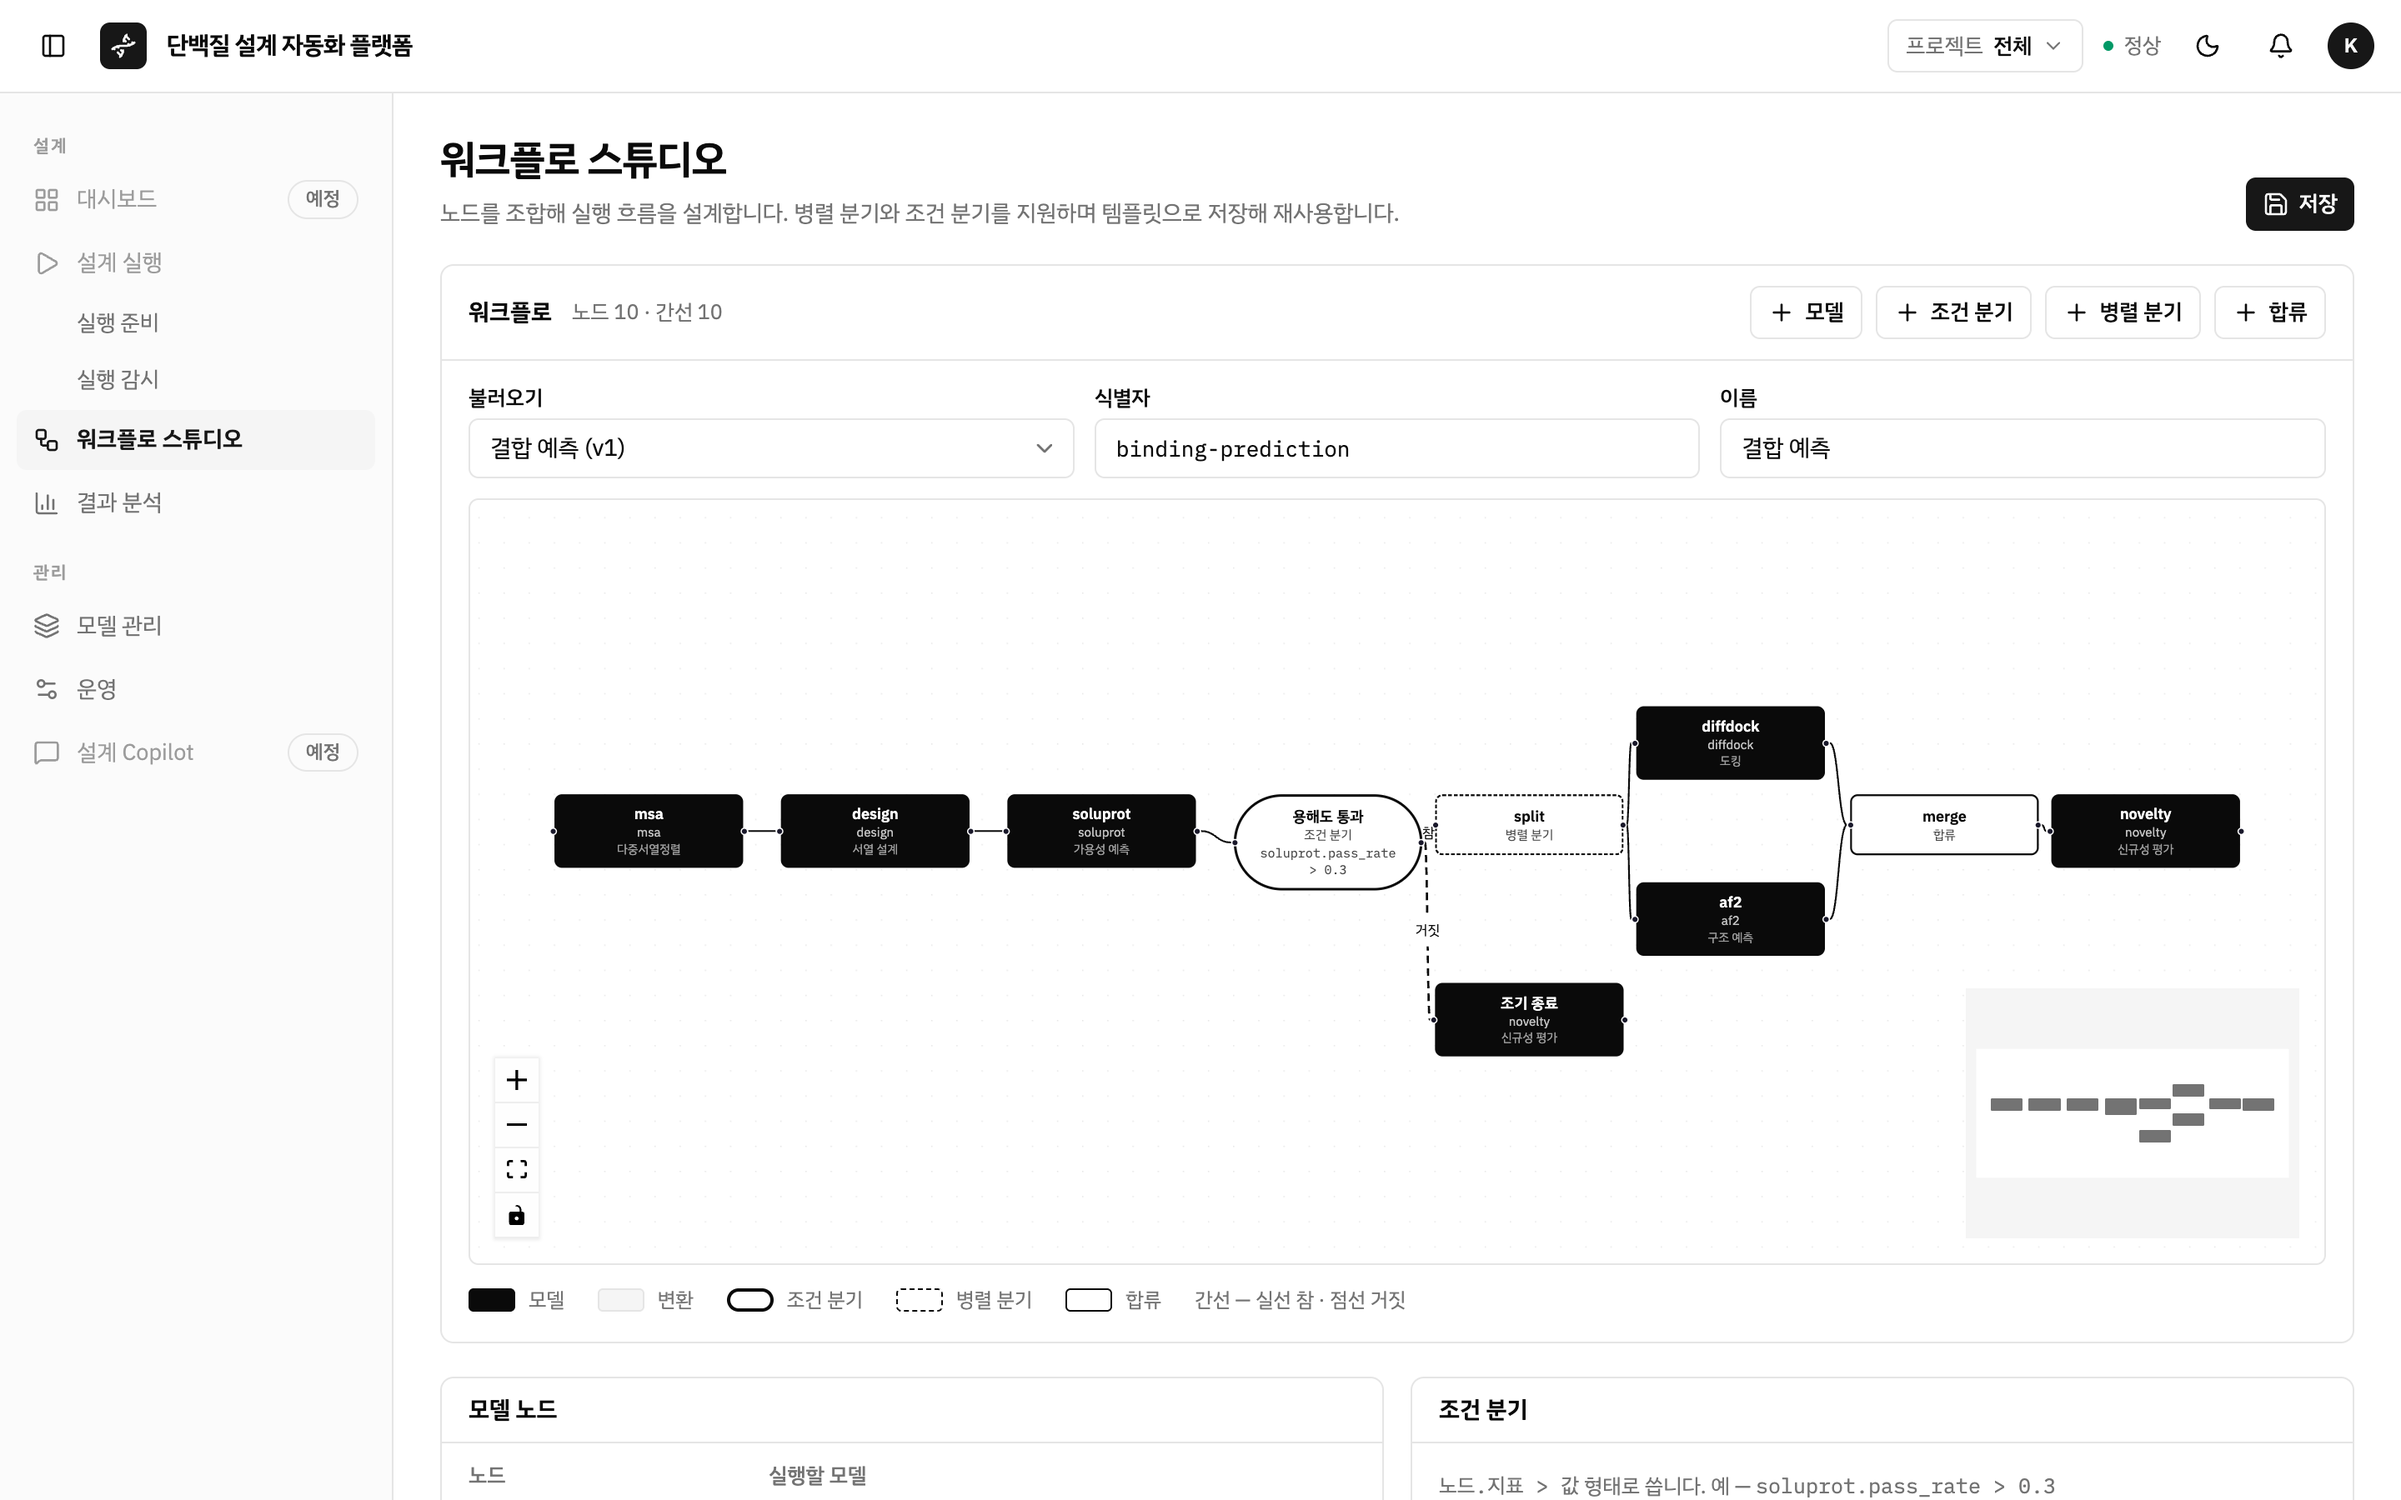
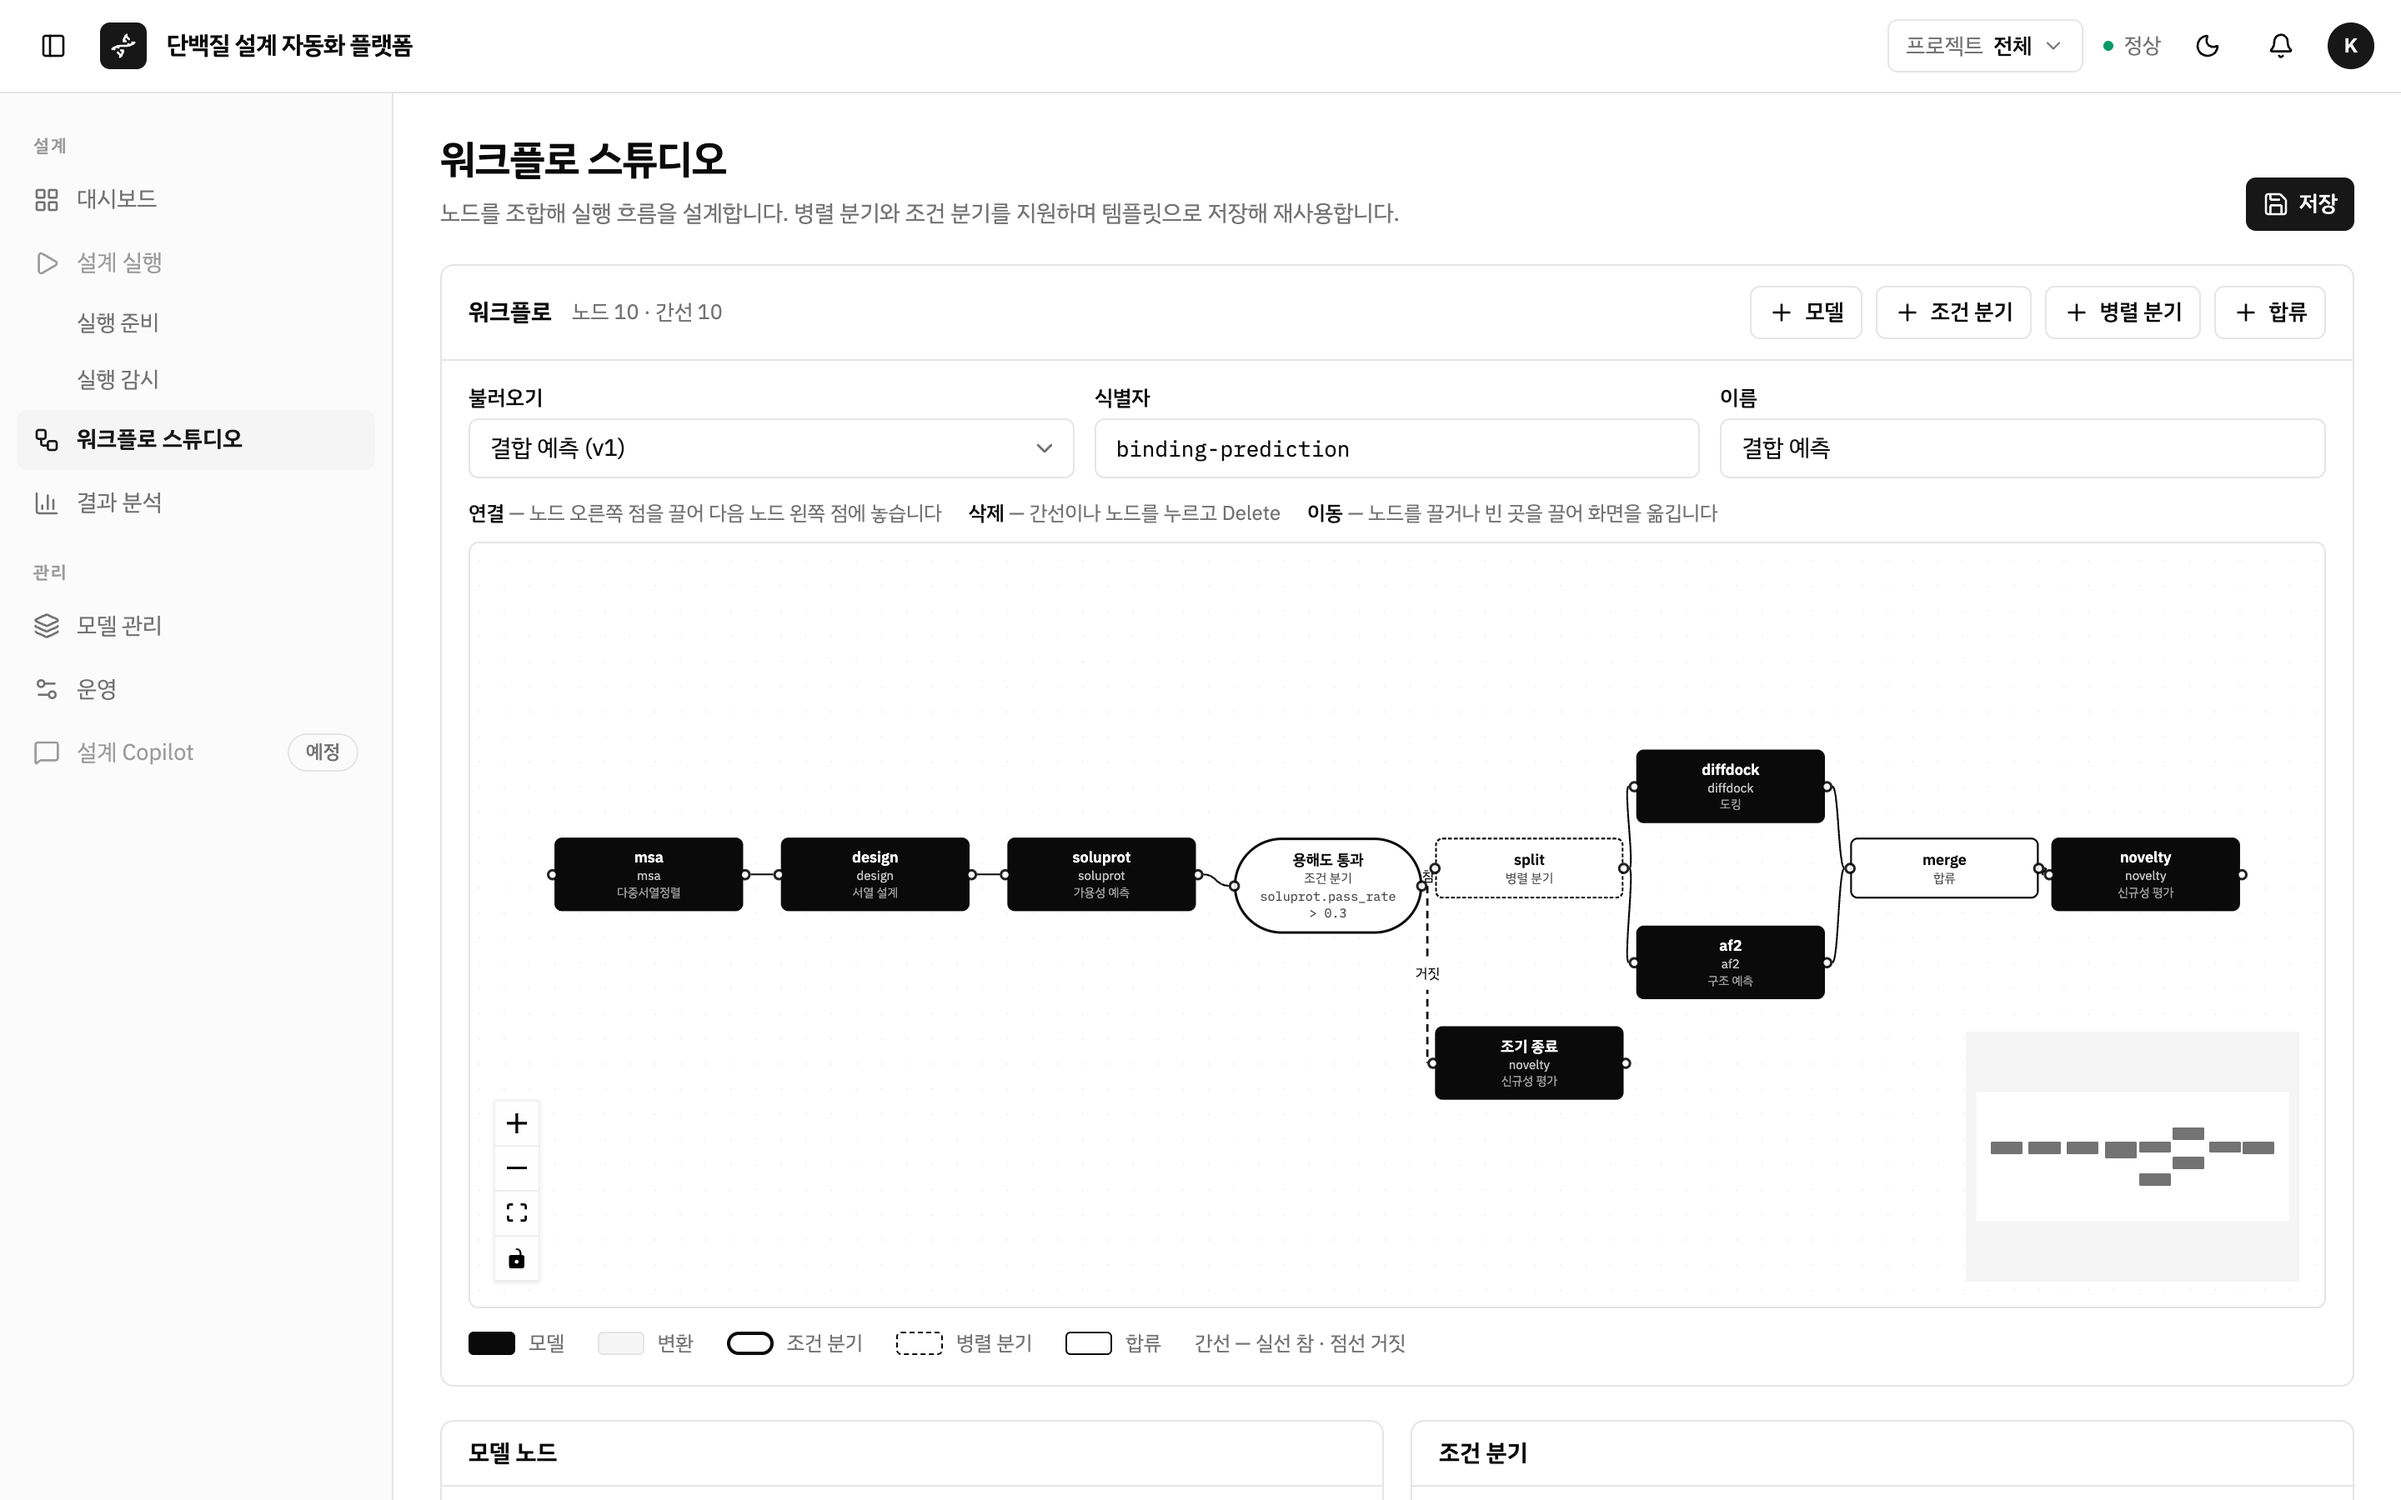
Make workflow connections visible and say how to draw one
Connection handles were React Flow's defaults: small grey dots, which vanish
against a filled black node. Nobody draws an edge they cannot see, and nothing
on the canvas said edges were drawn by dragging at all.

Handles now have a light core and a dark ring, legible on a filled node and an
outlined one alike, and they grow when the node is hovered so the target is
easier to hit than it looks. The line being dragged follows the foreground
colour, a valid drop turns the status green, and a selected edge turns the
status blue so it is clear what Delete removes.

Above the canvas, one line each for connecting, deleting and panning.

diff --git a/web/src/styles.css b/web/src/styles.css
@@ -115,3 +115,47 @@
     font-variant-numeric: tabular-nums;
   }
 }
+
+/*  Workflow editor.
+
+    Connection handles ship as small grey dots, which disappear on a filled
+    black node. Nobody can draw an edge they cannot see, so they are given a
+    light core and a dark ring - legible on a filled node and an outlined one
+    alike - and a hit area larger than they look. */
+.react-flow__handle {
+  width: 9px;
+  height: 9px;
+  border: 2px solid var(--foreground);
+  background: var(--background);
+  opacity: 0.9;
+}
+.react-flow__handle:hover,
+.react-flow__node:hover .react-flow__handle {
+  opacity: 1;
+  width: 12px;
+  height: 12px;
+  background: var(--foreground);
+  border-color: var(--background);
+}
+.react-flow__handle-right { right: -6px; }
+.react-flow__handle-left { left: -6px; }
+
+/*  The line drawn while dragging, and a valid drop target. */
+.react-flow__connection-path {
+  stroke: var(--foreground);
+  stroke-width: 2;
+}
+.react-flow__handle-connecting {
+  background: var(--color-status-running);
+  border-color: var(--color-status-running);
+}
+.react-flow__handle-valid {
+  background: var(--color-status-succeeded);
+  border-color: var(--color-status-succeeded);
+}
+
+/*  Selected edge, so it is clear what Delete will remove. */
+.react-flow__edge.selected .react-flow__edge-path {
+  stroke: var(--color-status-running);
+  stroke-width: 3;
+}

diff --git a/web/src/pages/Studio.tsx b/web/src/pages/Studio.tsx
@@ -313,6 +313,22 @@ export function Studio() {
           </Field>
         </div>
 
+        {/*  Drawing an edge is not discoverable from the canvas alone. */}
+        <div className="text-muted-foreground mb-2 flex flex-wrap items-center gap-x-4 gap-y-1 text-[12px]">
+          <span>
+            <span className="text-foreground font-medium">연결</span> — 노드 오른쪽 점을 끌어
+            다음 노드 왼쪽 점에 놓습니다
+          </span>
+          <span>
+            <span className="text-foreground font-medium">삭제</span> — 간선이나 노드를 누르고
+            Delete
+          </span>
+          <span>
+            <span className="text-foreground font-medium">이동</span> — 노드를 끌거나 빈 곳을
+            끌어 화면을 옮깁니다
+          </span>
+        </div>
+
         <div className="h-[460px] overflow-hidden rounded-md border">
           <ReactFlow
             nodes={nodes}
